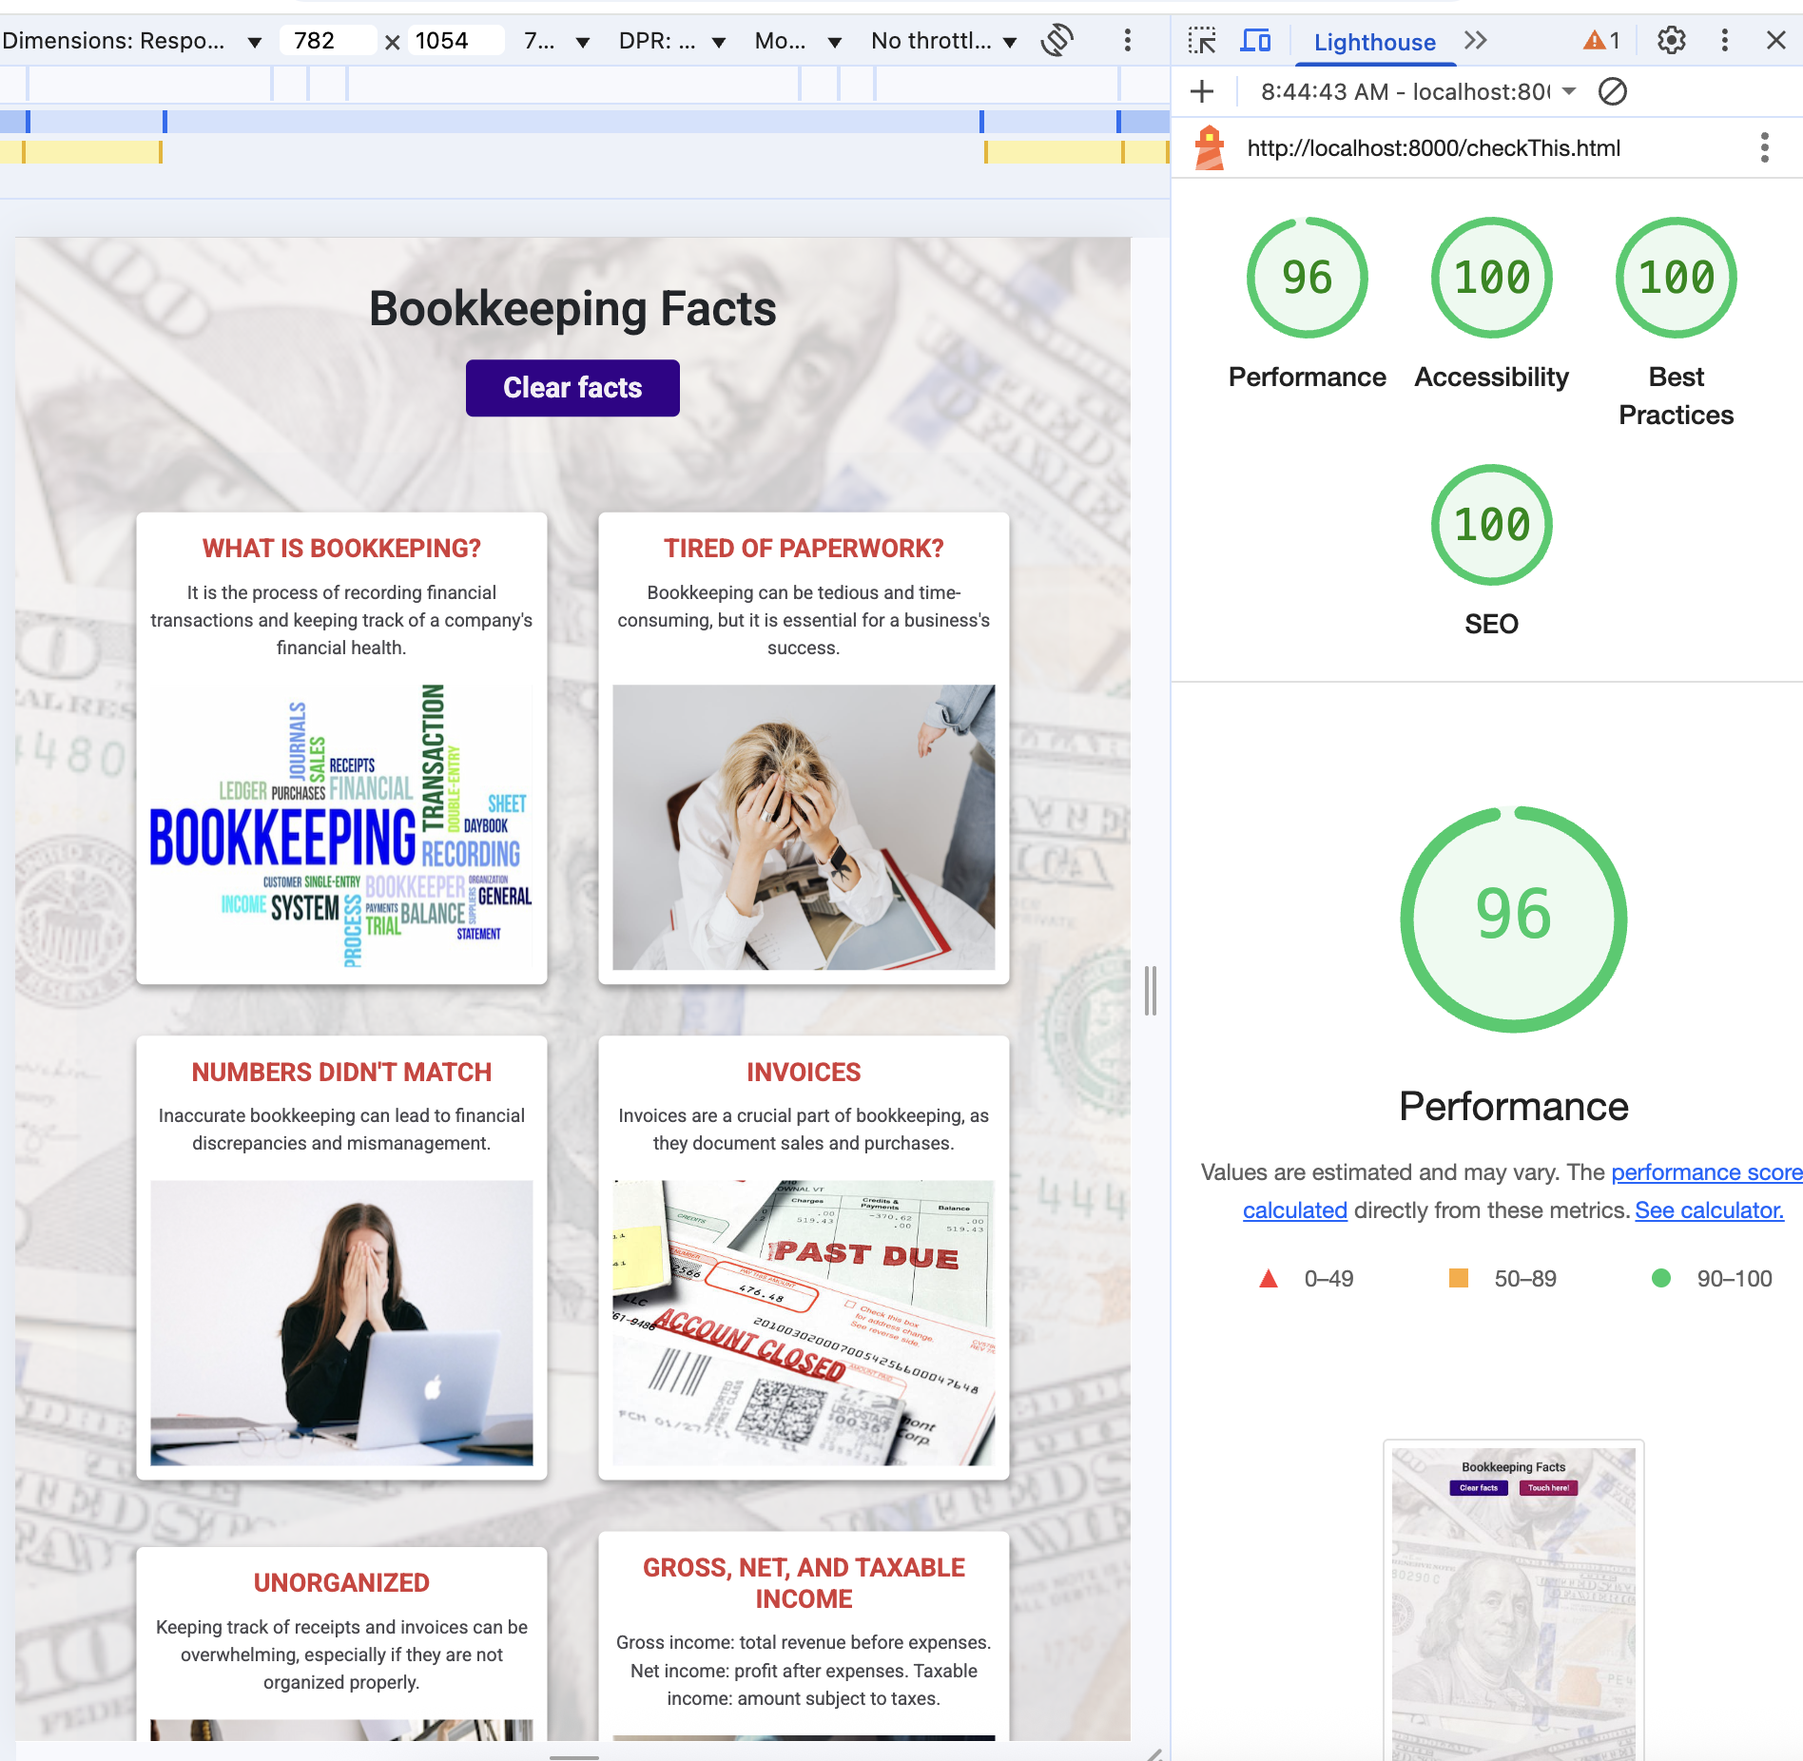
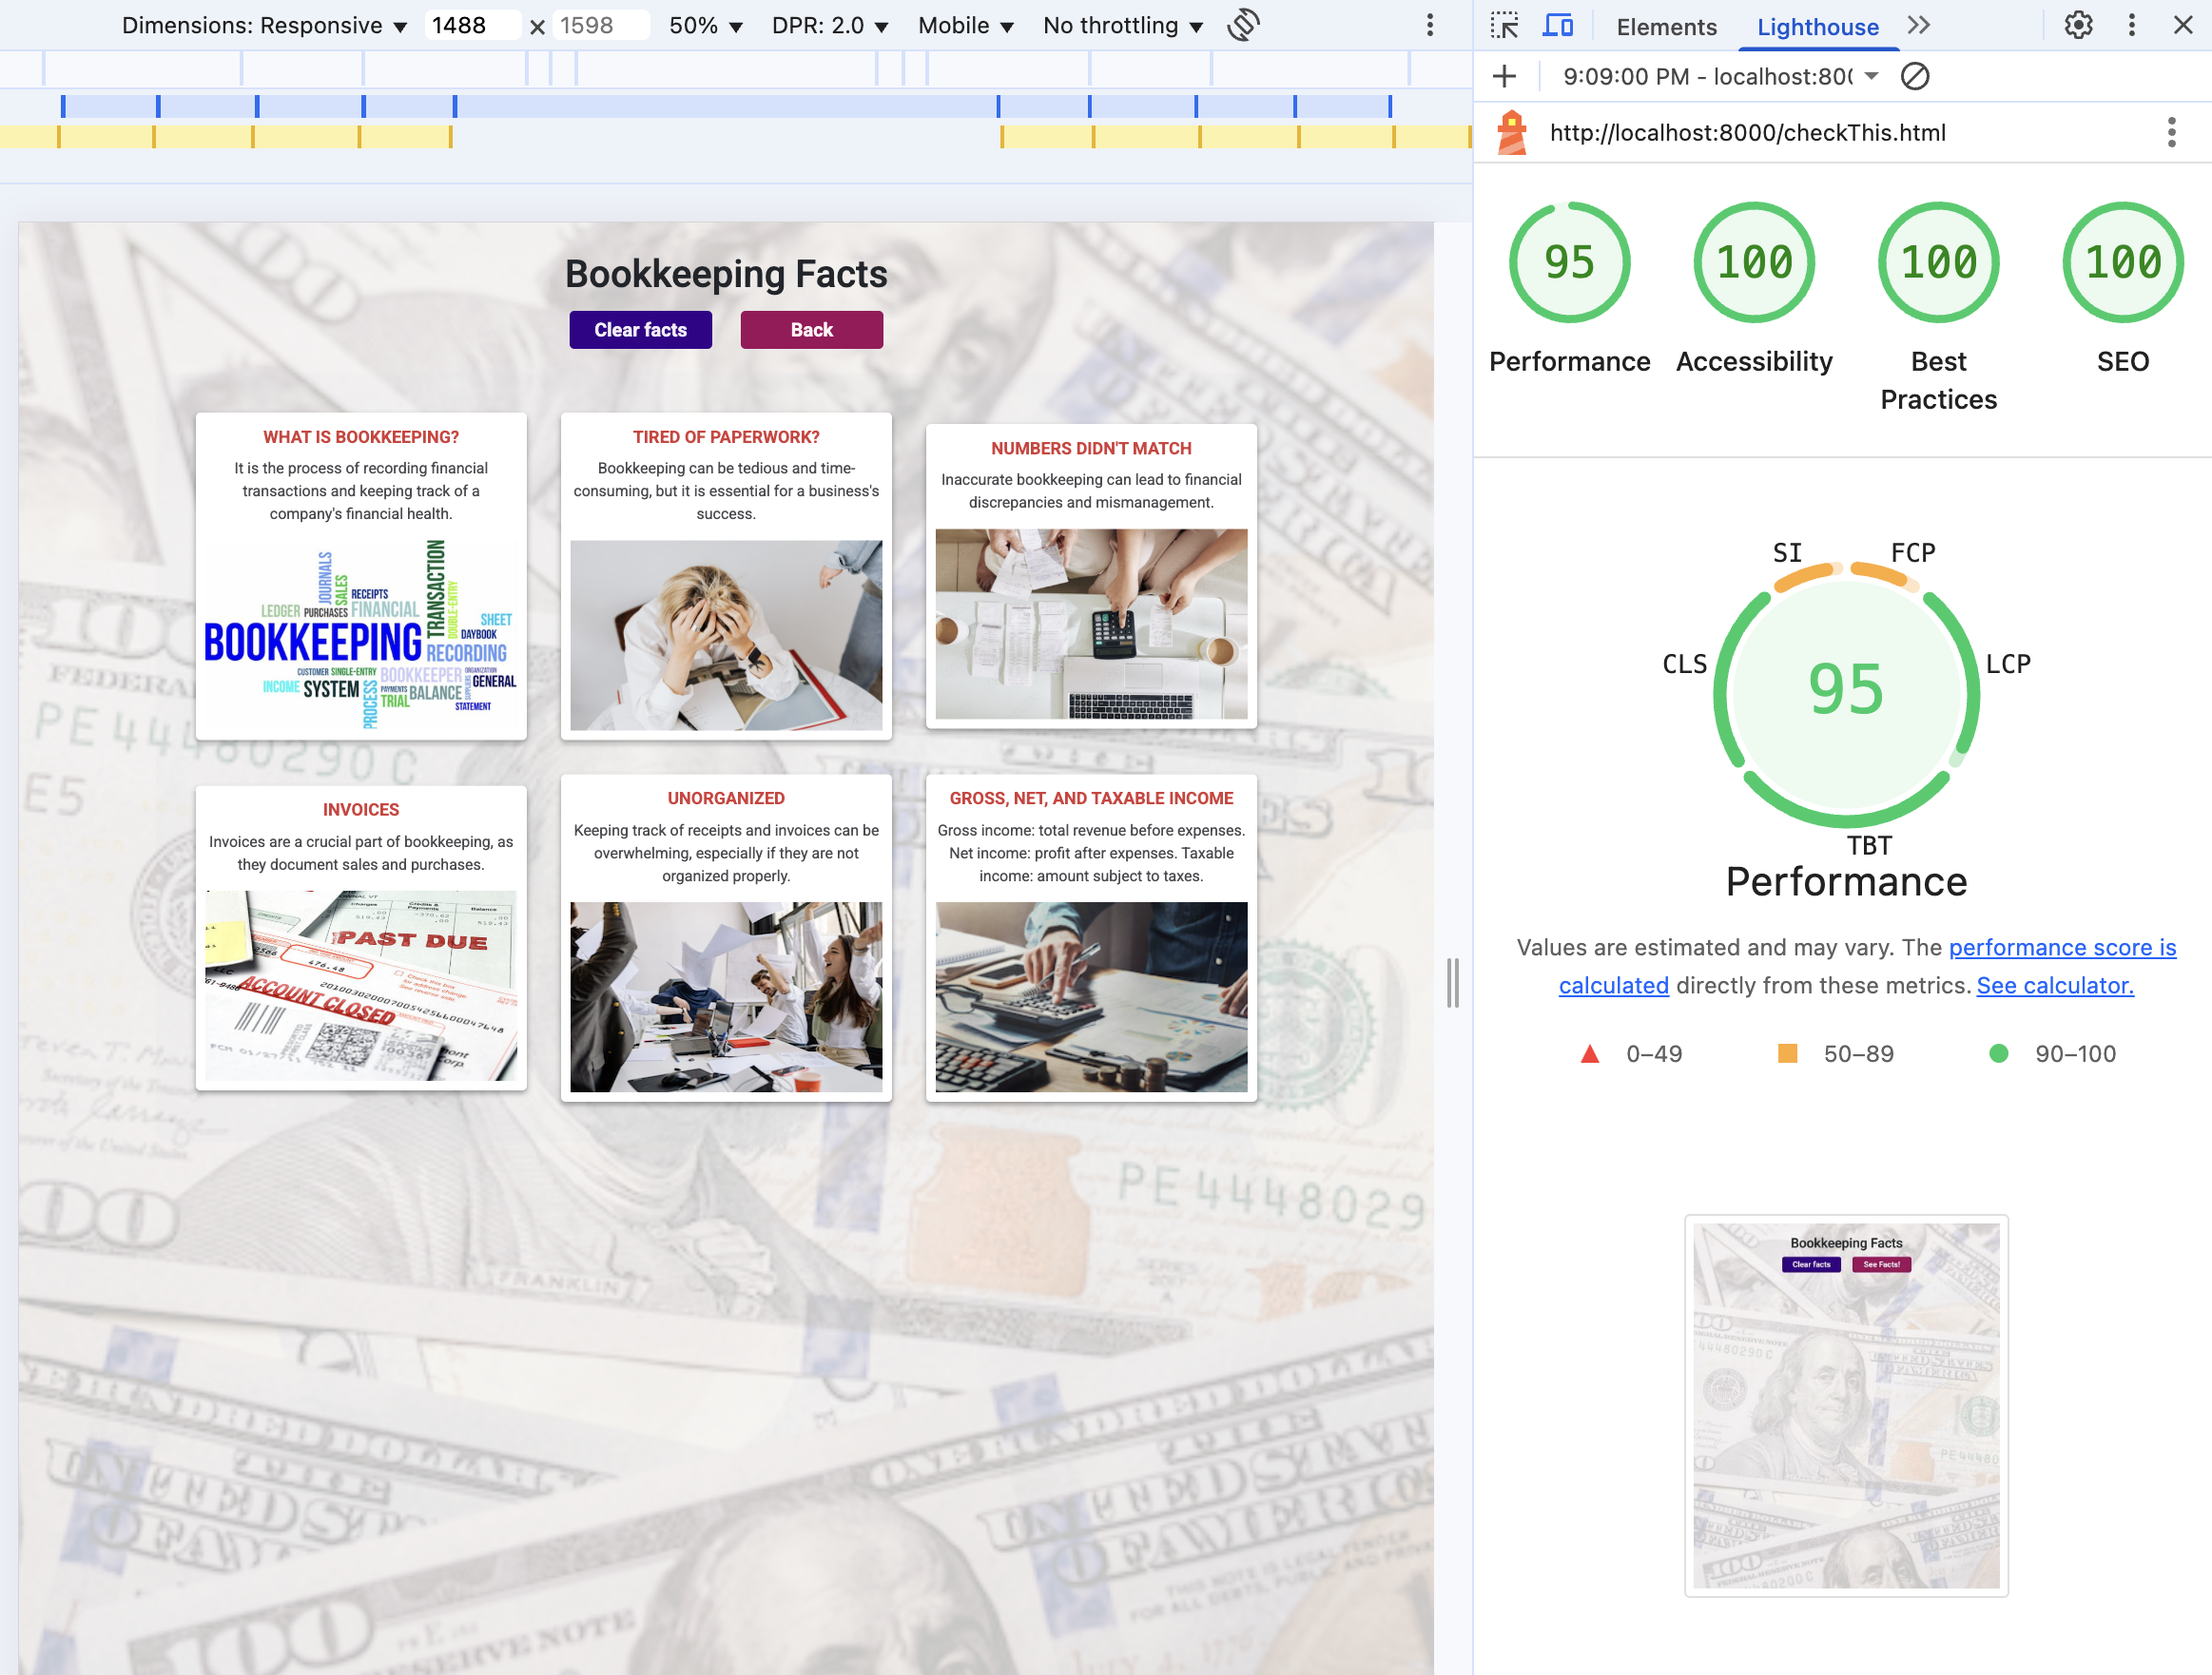
fix: update validations images (js, lighthouse, etc) for Readme

diff --git a/assets/js/quiz.js b/assets/js/quiz.js
@@ -51,12 +51,12 @@ document.addEventListener("DOMContentLoaded", function () {
         resultDiv.innerHTML += `<div class="feedback-line">You might benefit from bookkeeping help.<br>Redirecting...</div>`;
         setTimeout(() => {
           window.location.href = "./feedback.html";
-        }, 12000);
+        }, 4000);
       } else {
         resultDiv.innerHTML += `<div class="feedback-line">You're doing great! Keep it up.<br>Back to Home...</div>`;
         setTimeout(() => {
           window.location.href = "./index.html";
-        }, 12000);
+        }, 4000);
       }
 
       resultDiv.classList.add("alert", "alert-info", "mt-3");

diff --git a/README.md b/README.md
@@ -65,6 +65,8 @@ All pages were designed with **Responsive Design** to provide a consistent exper
 
 ![Responsive devices -home](assets/images/readme/amIR/AIR-Quiz-p2a.png)
 
+![Responsive devices -home](assets/images/readme/amIR/AIR-Quiz-p2b.png)
+
 ![Responsive devices -home](assets/images/readme/amIR/AIR-Feedback.png)
 
 ![Responsive devices -home](assets/images/readme/amIR/AIR-CheckThis!.png)
@@ -674,11 +676,6 @@ All pages have passed the official JSHint with no errors.
    
   ---
 
-  #### Format 1040 Page: [`format1040.html`](form.html)
-  ![Lighthouse DevTools Home](assets/images/readme/Lighthouse/LH-format1040.png)
-
-  ---
-
   #### Check This! Page: [`checkThis!.html`]( checkThis.html)
   ![Lighthouse DevTools Home](assets/images/readme/Lighthouse/LH-checkThis.html.png)
 
@@ -756,11 +753,13 @@ As a Frequent User, I want to:
 
 - Significant bugs were identified and resolved across all major development areas, including **HTML5**, **CSS3**, and **JavaScript**.
 - Several **spelling and grammar issues** were corrected throughout the project to improve clarity and professionalism.
+- Improved navigation by adding functional Back/Home buttons to return to the main page.
+- Resolved JavaScript syntax errors to ensure cleaner and more maintainable code.
+- Verified in Google Chrome Developer Tools that the console is free of errors after inspection for each page.
 
 ---
 ### Unsolved Bugs / Areas for Improvement
 
-- **Form 1040 validation**: The final section still requires refinement to ensure complete input validation and proper feedback handling.
 - **CSS cleanup**: Some unused or redundant CSS rules should be removed to reduce file size and improve maintainability.
 - **Code optimization**: Grouping and organizing code by section or page can make it easier to deploy, reduce the likelihood of bugs, and improve performance.
 - **Lighthouse Performance**: The site's performance metrics (as measured by Google's Lighthouse tool) can be improved by further optimizing code, assets, and loading behavior.
